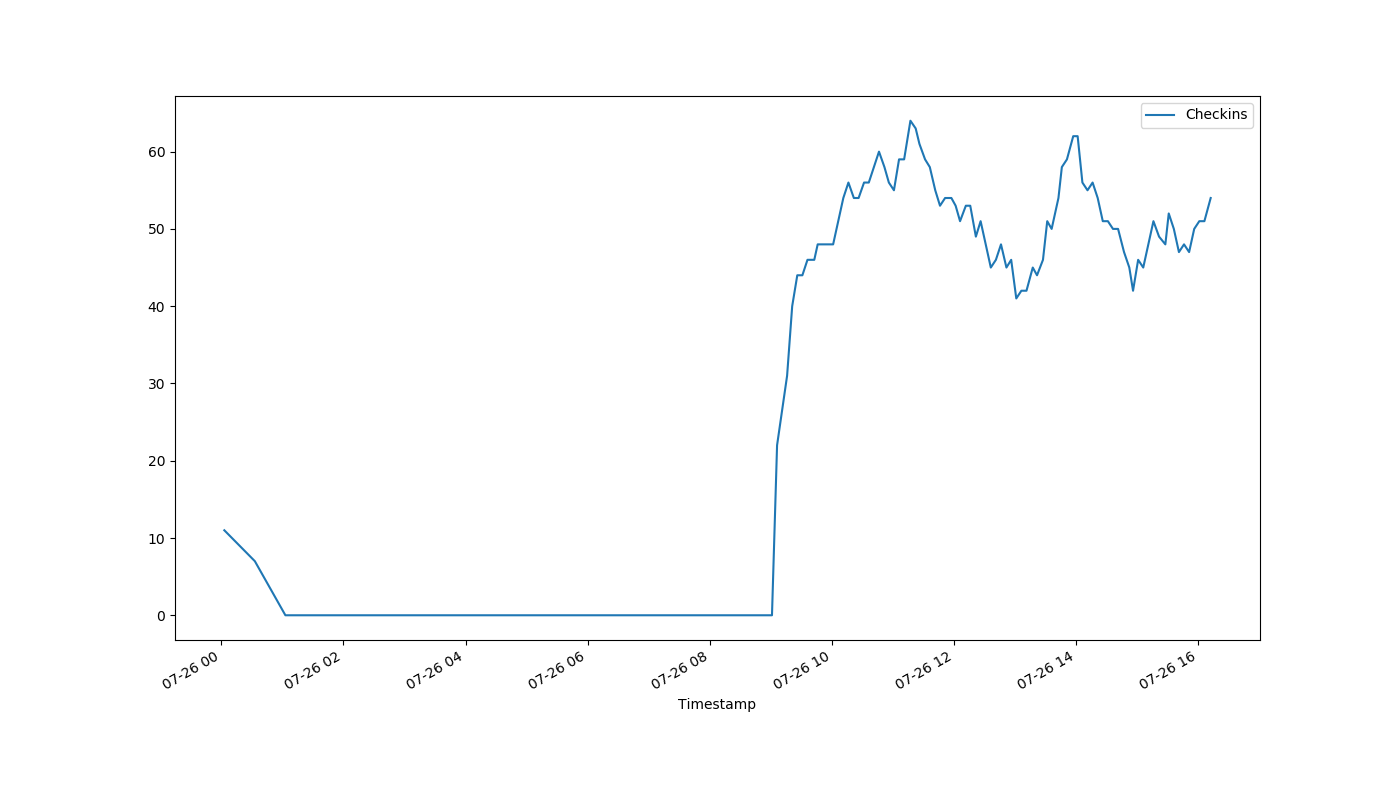
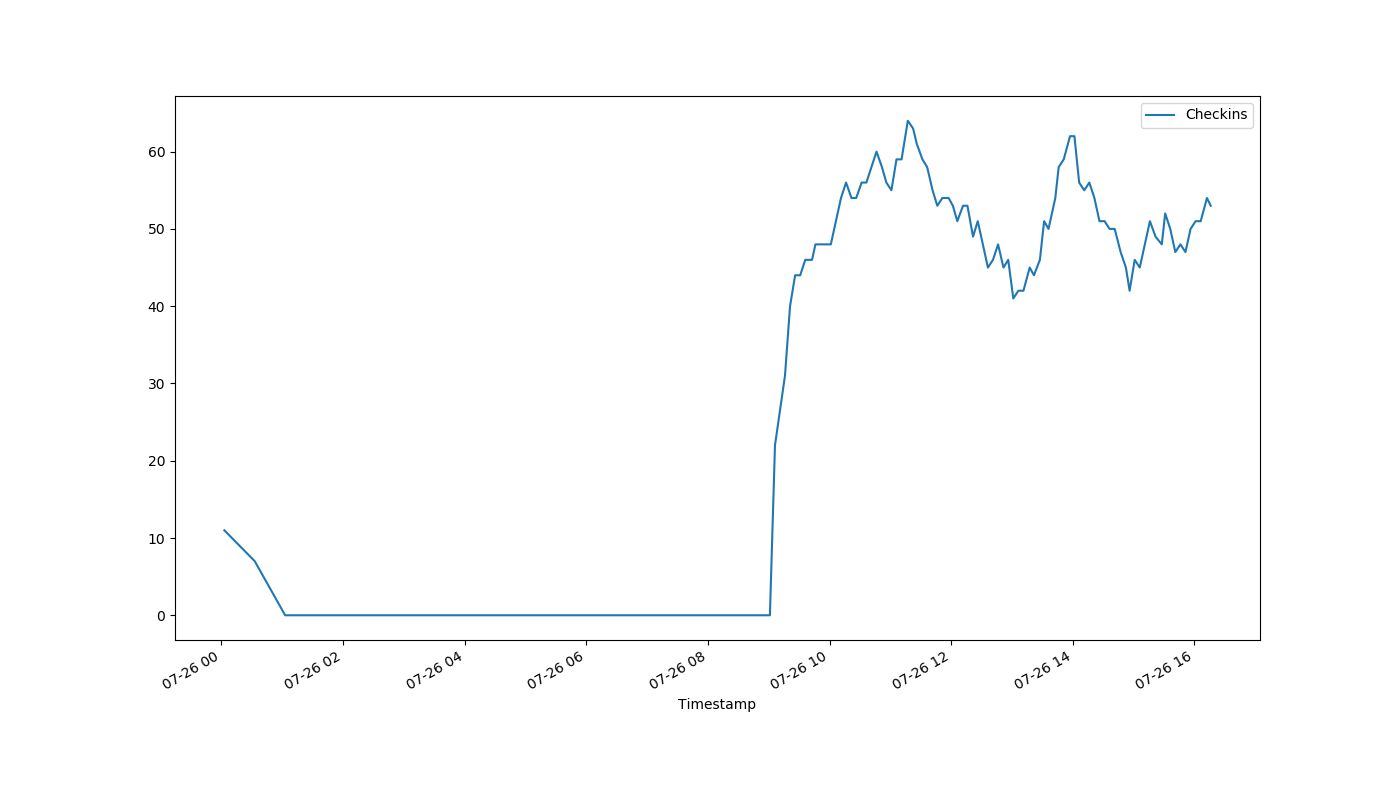
auto-Jul-26-16:16:59

diff --git a/index.html b/index.html
@@ -1,1 +1,1 @@
-<!DOCTYPE html><html><head><meta http-equiv="refresh" content="30"><link rel='stylesheet' href='holmcurrent.css'></head><body><p id='count'>54</p><div id='graph-wrap'><img id='graph' src='holmgraph-Jul-26.png'></div><p id='updated'>Last updated 16:13:10 / 16:12:20</p></body></html>
+<!DOCTYPE html><html><head><meta http-equiv="refresh" content="30"><link rel='stylesheet' href='holmcurrent.css'></head><body><p id='count'>53</p><div id='graph-wrap'><img id='graph' src='holmgraph-Jul-26.png'></div><p id='updated'>Last updated 16:16:10 / 16:16:00</p></body></html>
